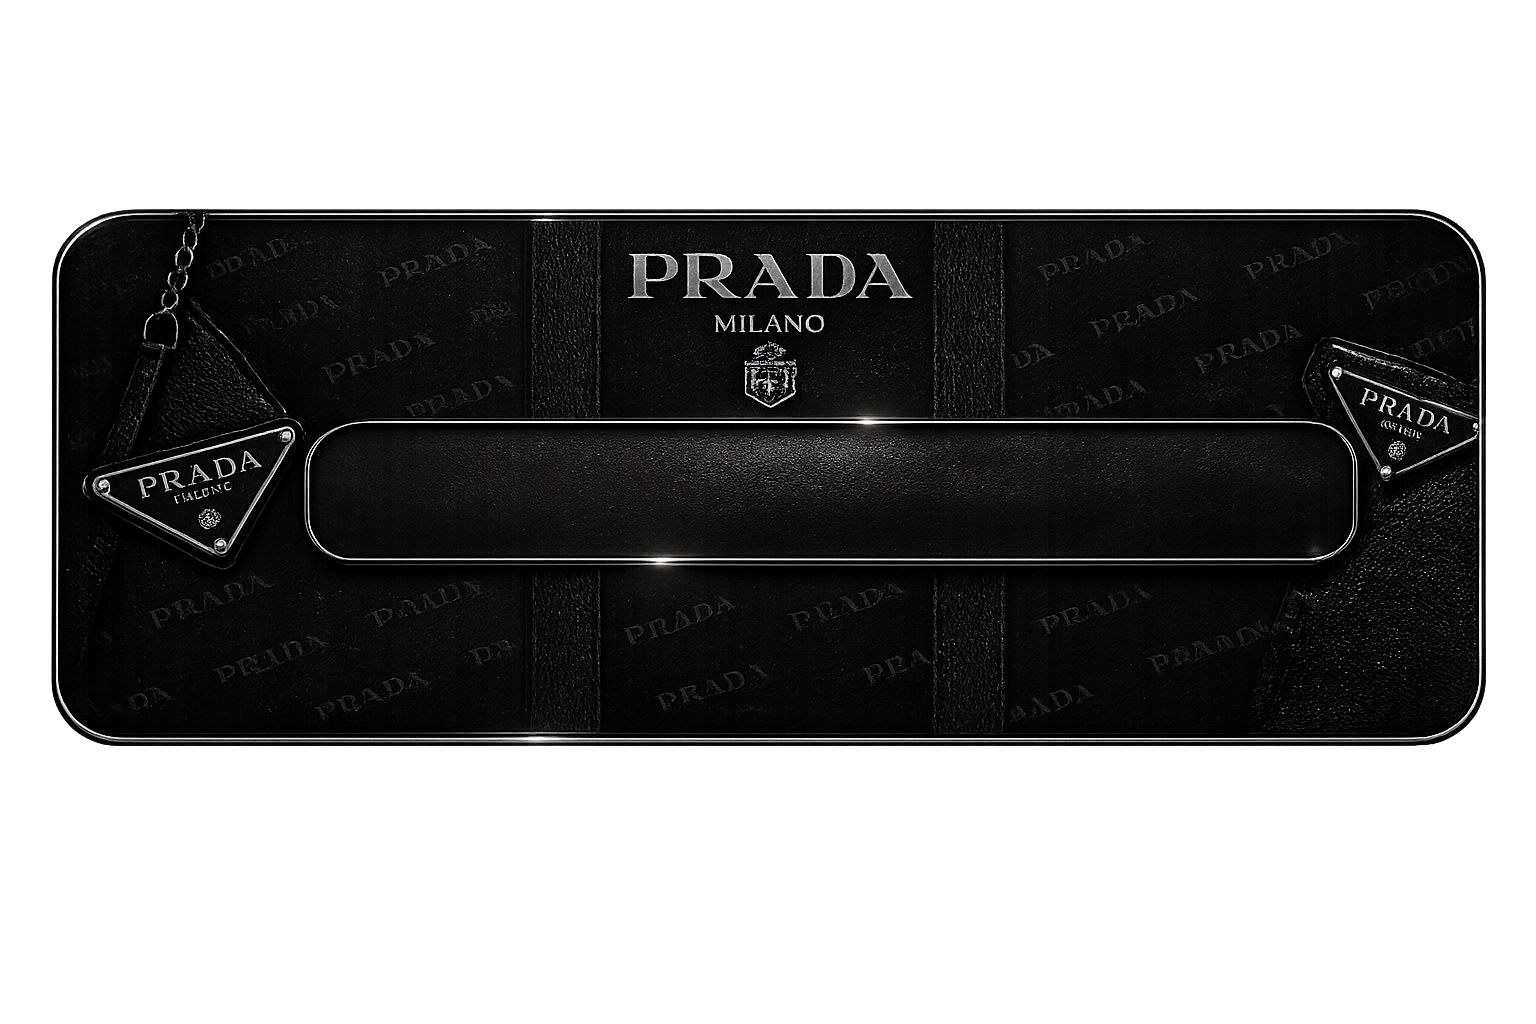
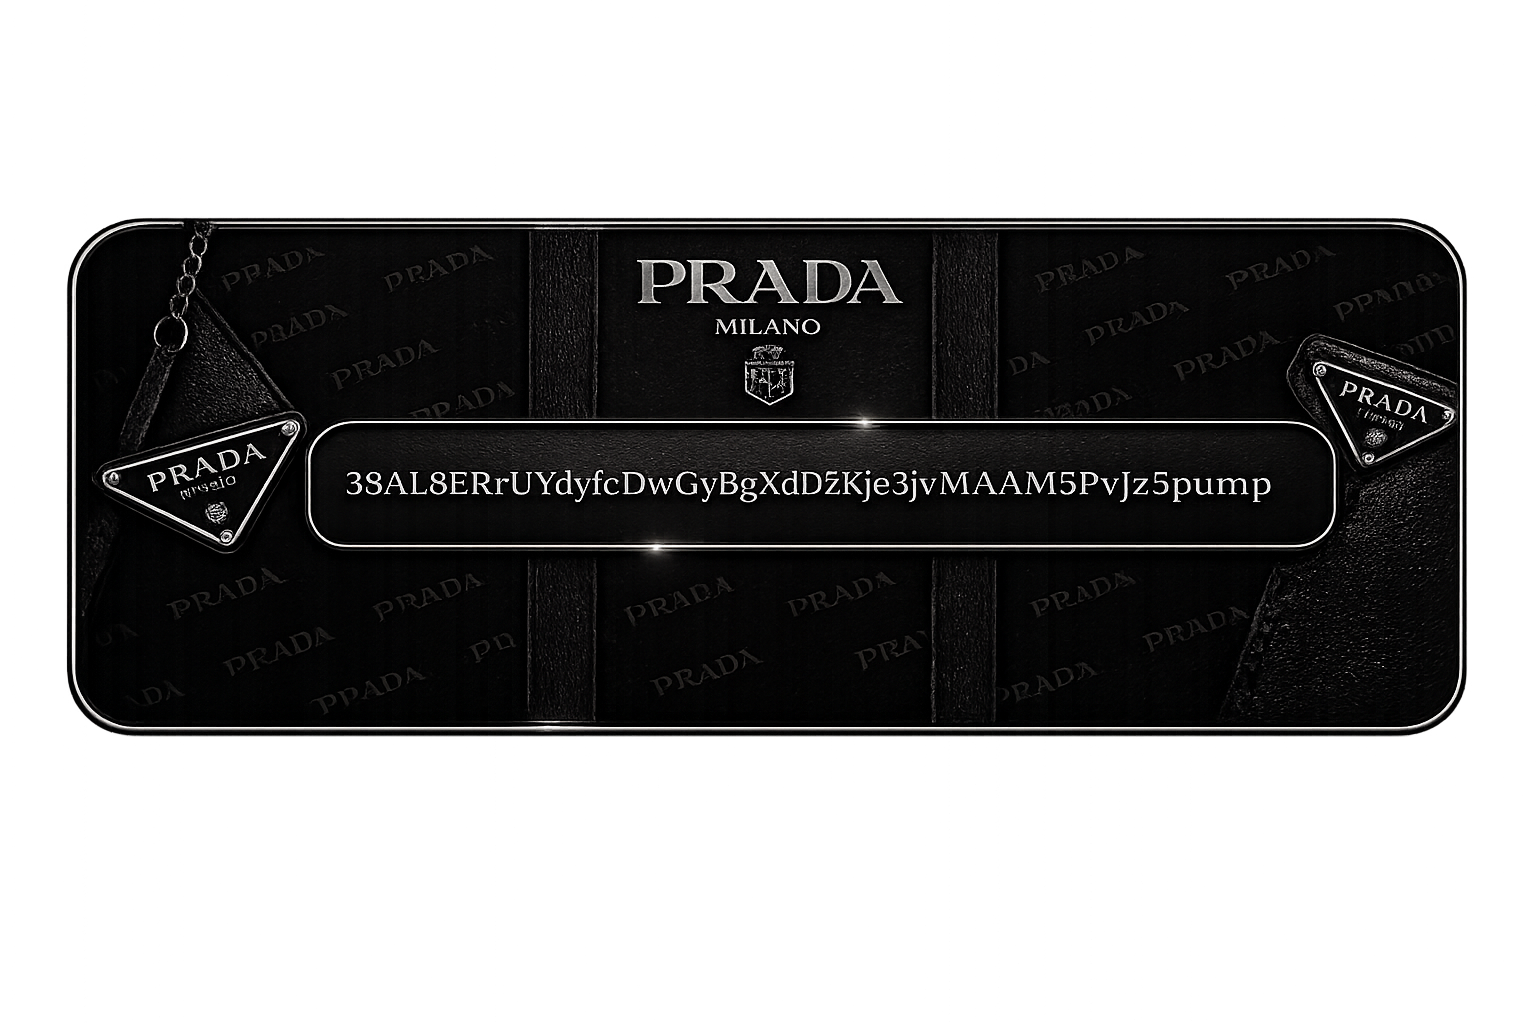
Add CA copy pill button and wire up real contract address
- Add gold-themed COPY pill positioned inside the CA box (centered horizontally, ~13% below the vertical midpoint of the image)
- Replace placeholder with real Solana CA (38AL8ER...Spump)
- Add "Copied to clipboard!" toast notification on top
- Point Buy Now button to pump.fun/coin/<CA>
- Widen content area (520px -> 680px) so the CA box renders larger
- Updated cabox.png asset

diff --git a/index.html b/index.html
@@ -65,7 +65,7 @@
       align-items: center;
       gap: 28px;
       width: 100%;
-      max-width: 520px;
+      max-width: 680px;
       padding: 0 20px;
     }
 
@@ -139,7 +139,7 @@
     .contract-address {
       position: absolute;
       left: 50%;
-      top: 50%;
+      top: 38%;
       transform: translate(-50%, -50%);
       color: #ffffff;
       font-size: clamp(0.7rem, 1.6vw, 0.95rem);
@@ -159,6 +159,89 @@
     .contract-address.copied {
       color: #4ade80;
     }
+
+    .copy-pill {
+      position: absolute;
+      left: 50%;
+      top: 63.2%;
+      transform: translate(-50%, -50%);
+      background:
+        linear-gradient(180deg, #ffd84a 0%, #e6a615 55%, #a66a00 100%);
+      color: #3a1500;
+      font-family: inherit;
+      font-size: clamp(0.7rem, 1.3vw, 0.88rem);
+      font-weight: 900;
+      letter-spacing: 1.5px;
+      border: 1px solid rgba(255, 236, 150, 0.7);
+      border-radius: 999px;
+      padding: 8px 24px;
+      cursor: pointer;
+      text-shadow: 0 1px 0 rgba(255, 220, 120, 0.6);
+      box-shadow:
+        0 4px 10px rgba(0, 0, 0, 0.4),
+        inset 0 1px 0 rgba(255, 255, 255, 0.6),
+        inset 0 -4px 8px rgba(120, 60, 0, 0.3);
+      transition: transform 0.15s ease, box-shadow 0.15s ease, filter 0.15s ease;
+      z-index: 2;
+      white-space: nowrap;
+    }
+
+    .copy-pill:hover {
+      transform: translate(-50%, -50%) scale(1.06);
+      filter: brightness(1.08);
+      box-shadow:
+        0 6px 14px rgba(0, 0, 0, 0.45),
+        inset 0 1px 0 rgba(255, 255, 255, 0.7),
+        inset 0 -4px 8px rgba(120, 60, 0, 0.3);
+    }
+
+    .copy-pill:active {
+      transform: translate(-50%, -50%) scale(0.96);
+    }
+
+    .copy-pill.copied {
+      background: linear-gradient(180deg, #86efac 0%, #22c55e 60%, #15803d 100%);
+      color: #052e13;
+      border-color: rgba(220, 252, 231, 0.8);
+    }
+
+    /* Toast notification */
+    .toast {
+      position: fixed;
+      top: 32px;
+      left: 50%;
+      transform: translate(-50%, -20px);
+      z-index: 10000;
+      background: linear-gradient(135deg, #dc2626 0%, #b91c1c 100%);
+      color: #ffffff;
+      padding: 14px 28px;
+      border-radius: 999px;
+      font-size: 0.95rem;
+      font-weight: 700;
+      letter-spacing: 0.5px;
+      box-shadow:
+        0 10px 30px rgba(0, 0, 0, 0.45),
+        0 0 0 1px rgba(255, 255, 255, 0.15) inset;
+      opacity: 0;
+      pointer-events: none;
+      transition: opacity 0.25s ease, transform 0.25s ease;
+      display: flex;
+      align-items: center;
+      gap: 10px;
+      white-space: nowrap;
+    }
+
+    .toast.show {
+      opacity: 1;
+      transform: translate(-50%, 0);
+    }
+
+    .toast svg {
+      width: 18px;
+      height: 18px;
+      fill: currentColor;
+      flex-shrink: 0;
+    }
   </style>
 </head>
 <body>
@@ -168,13 +251,14 @@
       <!-- Contract Address -->
       <div class="contract-box" onclick="copyCA()" role="button" tabindex="0" aria-label="Copy contract address">
         <img src="backgroundimage/cabox.png" alt="Contract Address" />
-        <span class="contract-address" id="ca-text">YOUR_SOLANA_CONTRACT_ADDRESS_HERE</span>
+        <span class="contract-address" id="ca-text">38AL8ERrUYdyfcDwGyBgXdDZKje3jvMAAM5PvJzSpump</span>
+        <button type="button" class="copy-pill" id="copy-pill" onclick="event.stopPropagation(); copyCA();">COPY</button>
       </div>
 
     </div>
 
     <!-- Floating Buy Now button (bottom-left) -->
-    <a class="btn-float btn-buynow" href="https://pump.fun" target="_blank" rel="noopener" aria-label="Buy Now">
+    <a class="btn-float btn-buynow" href="https://pump.fun/coin/38AL8ERrUYdyfcDwGyBgXdDZKje3jvMAAM5PvJzSpump" target="_blank" rel="noopener" aria-label="Buy Now">
       <img src="backgroundimage/buynow.png?v=2" alt="Buy Now" />
     </a>
 
@@ -186,18 +270,48 @@
 
   <canvas id="trail"></canvas>
 
+  <div class="toast" id="toast" role="status" aria-live="polite">
+    <svg viewBox="0 0 24 24" xmlns="http://www.w3.org/2000/svg">
+      <path d="M9 16.17 4.83 12l-1.42 1.41L9 19 21 7l-1.41-1.41z"/>
+    </svg>
+    <span>Copied to clipboard!</span>
+  </div>
+
   <script>
+    const CA = '38AL8ERrUYdyfcDwGyBgXdDZKje3jvMAAM5PvJzSpump';
+    let toastTimer = null;
+    let pillTimer = null;
+
+    function flashPill() {
+      const pill = document.getElementById('copy-pill');
+      if (!pill) return;
+      pill.textContent = 'COPIED!';
+      pill.classList.add('copied');
+      clearTimeout(pillTimer);
+      pillTimer = setTimeout(() => {
+        pill.textContent = 'COPY';
+        pill.classList.remove('copied');
+      }, 1800);
+    }
+
+    function showToast() {
+      const toast = document.getElementById('toast');
+      toast.classList.add('show');
+      clearTimeout(toastTimer);
+      toastTimer = setTimeout(() => toast.classList.remove('show'), 2000);
+      flashPill();
+    }
+
     function copyCA() {
-      const el = document.getElementById('ca-text');
-      const ca = el.dataset.ca || el.textContent;
-      if (!el.dataset.ca) el.dataset.ca = ca;
-      navigator.clipboard.writeText(ca).then(() => {
-        el.textContent = 'COPIED!';
-        el.classList.add('copied');
-        setTimeout(() => {
-          el.textContent = el.dataset.ca;
-          el.classList.remove('copied');
-        }, 1500);
+      navigator.clipboard.writeText(CA).then(showToast).catch(() => {
+        const ta = document.createElement('textarea');
+        ta.value = CA;
+        ta.style.position = 'fixed';
+        ta.style.opacity = '0';
+        document.body.appendChild(ta);
+        ta.select();
+        try { document.execCommand('copy'); showToast(); } catch {}
+        document.body.removeChild(ta);
       });
     }
 
